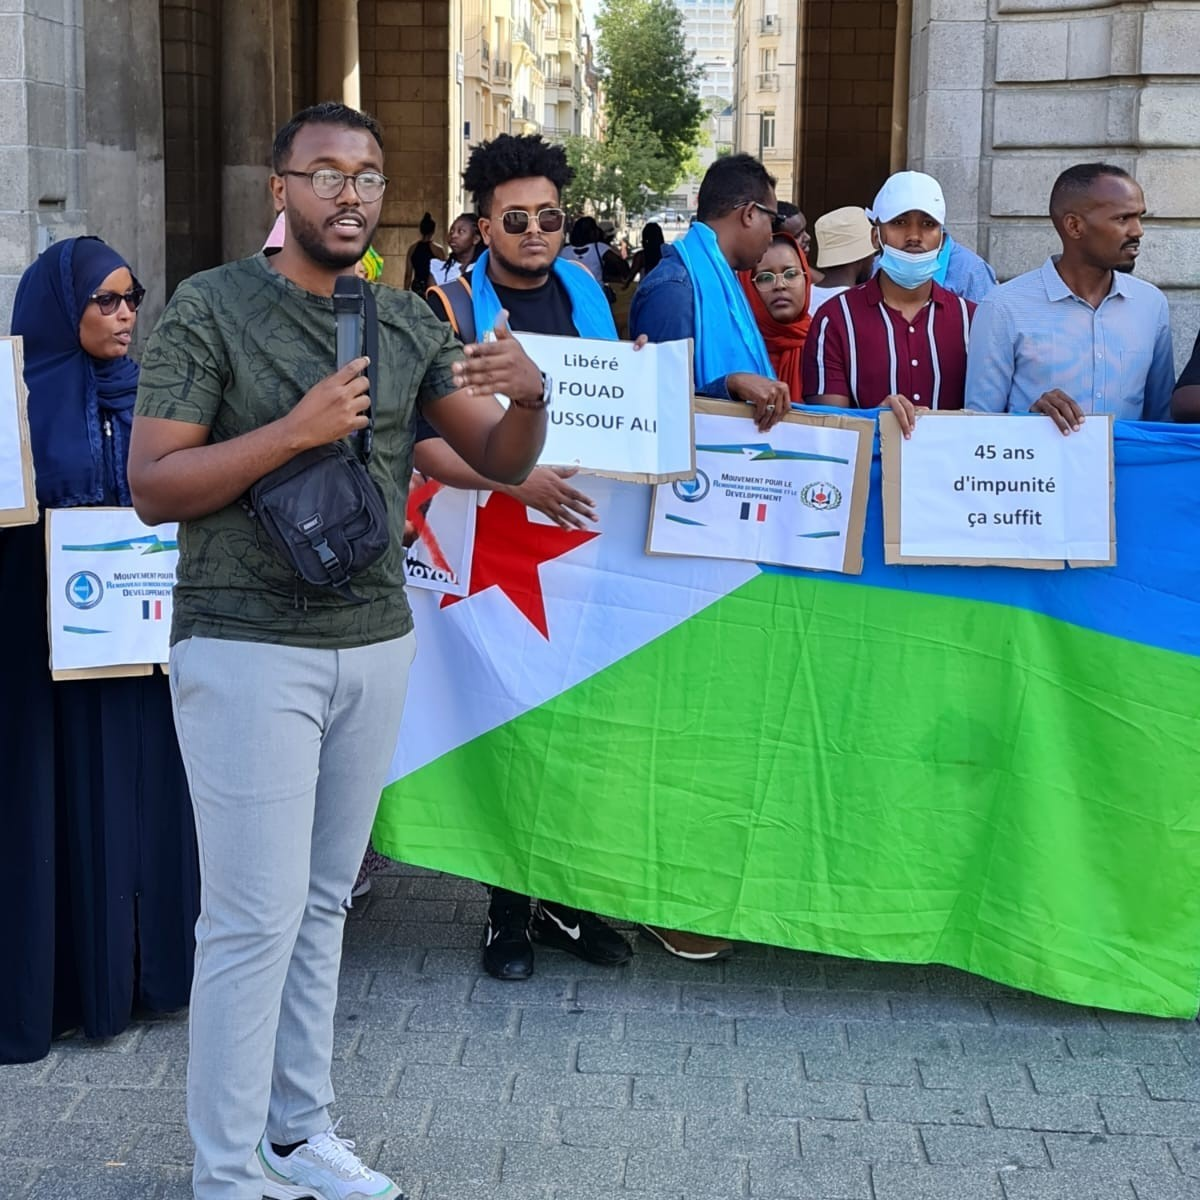
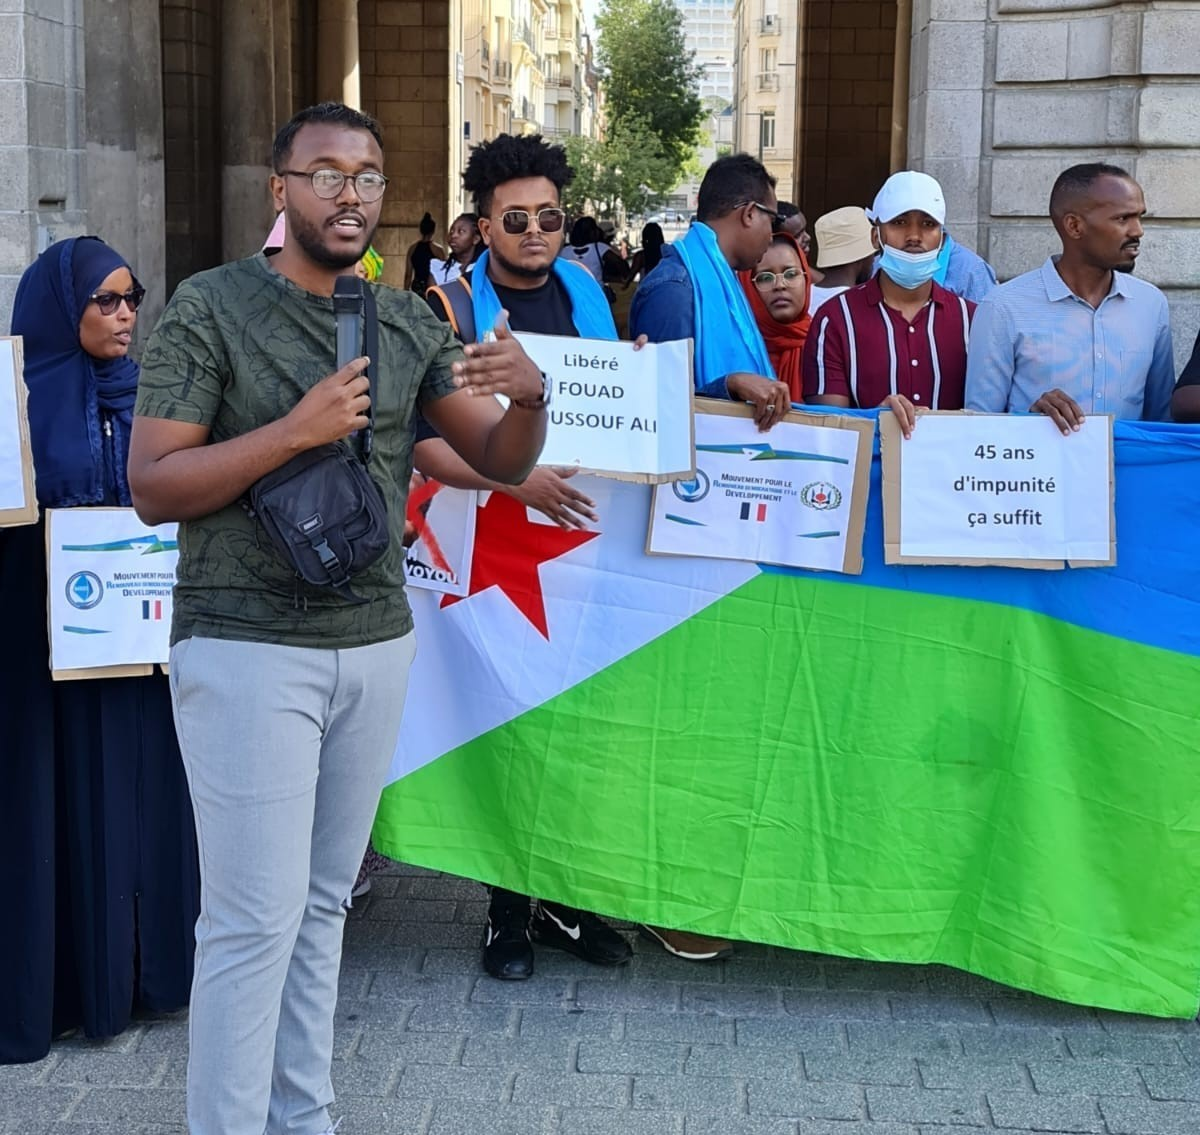
update

diff --git a/index.html b/index.html
@@ -489,7 +489,7 @@
                     </div>
           
                     <div class="mySlidess fade">
-                      <img src="./assets/jpeg/manifestation/5.png" style="width:100%">
+                      <img src="./assets/jpeg/manifestation/7.jpg" style="width:100%">
                     </div>
 
                     <div class="mySlidess fade">
